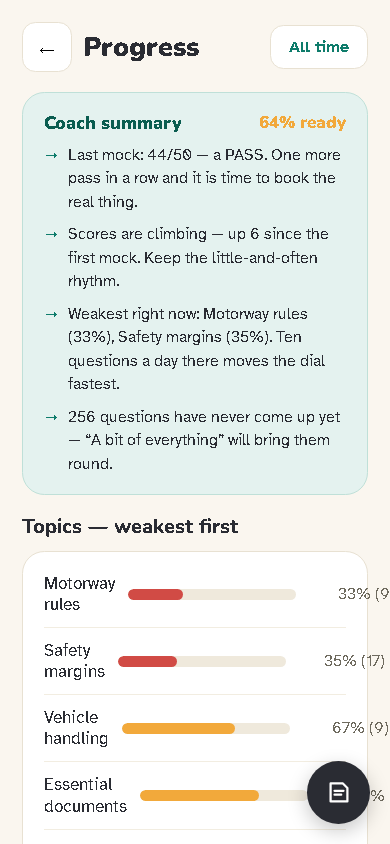
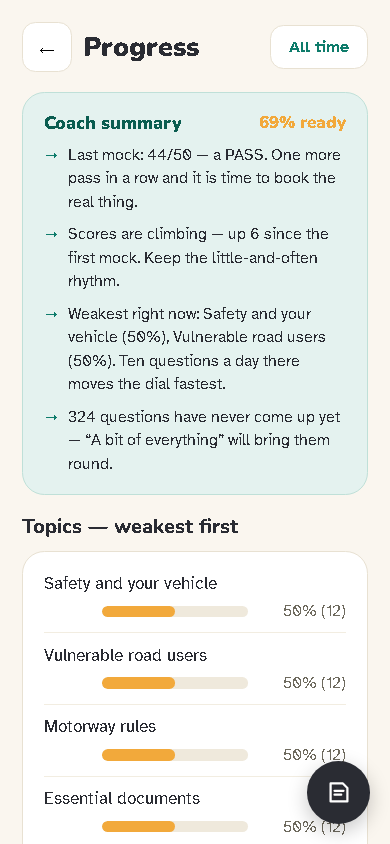
docs(help): How-to guide covers Your data, the age question and Explain it differently
help.html (issue #2's guide; it had merged and nobody is working on it):
- Sign in: new part "Your year of birth" (the age question, the parent or guardian box, Not
  now), with a new screenshot help/img/age.png. The age comes from config.js (data-config).
- Practise: "Explain it differently" under Answering a question.
- Settings: "Your data" in the list and a new part (Download my data, Your age, Delete my
  account with its typed confirmation, the renewing-subscription and admin rules), with a
  new screenshot help/img/settings-your-data.png.
- Memory tips is now "Memory tips and plain explanations" (the review screen's second kind,
  "In the bank" beside each plain explanation); the dashboard link's new wording.
- Retaken: help/img/admin-dashboard.png and admin-links.png showed the topic figures cut off
  (#12 B) and the old Memory tips button.
- FAQ: how to get a copy of your data or delete your account; why the app asks your year of
  birth.

Checked in a browser at 390 and 1280, light and dark: no sideways overflow, every changed
image loads at its stated size, the age reads 16 from config.js.

diff --git a/help.html b/help.html
@@ -67,7 +67,7 @@
           <li class="toc-group">For the parent or admin</li>
           <li><a href="#admin">The admin dashboard</a></li>
           <li><a href="#activity">Activity</a></li>
-          <li><a href="#tips">Memory tips</a></li>
+          <li><a href="#tips">Memory tips and plain explanations</a></li>
           <li><a href="#editor">Questions and packs</a></li>
           <li><a href="#access">Access and account tools</a></li>
           <li class="toc-group">Help</li>
@@ -112,6 +112,22 @@
           <figure class="shot">
             <a href="help/img/create-account.png"><img src="help/img/create-account.png" width="390" height="844" alt="The Create your account screen: boxes for your name, email and password, and a Create account button." loading="lazy"></a>
             <figcaption>Create your account</figcaption>
+          </figure>
+        </div>
+        <div class="step">
+          <div>
+            <h3 id="age">Your year of birth</h3>
+            <p>Right after your first sign-in, the app asks the year you were born. Everyone is asked once, including accounts made before the question existed.</p>
+            <ul>
+              <li>Type the year and tap <strong>Save</strong>. Only the year is kept, never the day or month.</li>
+              <li>If you may be under <span data-config="age.guardianUnder">16</span>, a box appears for a parent or guardian: they tick it to agree to you using Theory Trainer, and add their email (not yours). Their email is kept with your account as the record that they agreed.</li>
+              <li><strong>Not now</strong> puts the question off until you next open the app; it keeps coming back until it's answered.</li>
+              <li>You can change the answer any time in <a href="#yourdata">Settings → Your data</a>.</li>
+            </ul>
+          </div>
+          <figure class="shot">
+            <a href="help/img/age.png"><img src="help/img/age.png" width="390" height="844" alt="What year were you born? with 2012 typed in, and a box saying a parent or guardian needs to agree, with their tick and their email, then Save and Not now." loading="lazy"></a>
+            <figcaption>Your year of birth</figcaption>
           </figure>
         </div>
       </section>
@@ -284,6 +300,7 @@
             <ul>
               <li>Tap an answer. You find out straight away: your pick turns red if it's wrong and the right one turns green. On a computer you can use the keyboard: <strong>Tab</strong> to an answer, then press <strong>Enter</strong> or <strong>Space</strong>.</li>
               <li>Underneath is the explanation and its <strong>Highway Code</strong> rule, often with a tip to remember it. The speaker button reads the explanation out.</li>
+              <li><strong>Explain it differently</strong> appears under a wrong answer when the question has a plainer explanation: tap it to read the same explanation in other words (<strong>In other words: …</strong>), and tap again to hide it. The admin checks every one before it appears, so only some questions have one.</li>
               <li><strong>Speaker buttons</strong> read the question, or any one answer, aloud.</li>
               <li><strong>Hint: take two away</strong> removes two wrong answers (you can turn this button off in Settings).</li>
               <li><strong>Tricky?</strong> at the top flags the question so you can revise it later. It changes to <strong>Flagged</strong>; tap again to un-flag.</li>
@@ -559,6 +576,7 @@
               <div><dt>Daily reminder and Reminder time</dt><dd>See <a href="#reminders">Daily reminders</a>.</dd></div>
               <div><dt>Quick setup</dt><dd><strong>Run it again</strong> goes back through the <a href="#setup">quick setup</a>: test date, daily goal and reminder, one at a time.</dd></div>
               <div><dt>Profiles</dt><dd>Change the learner's and the parent's names, and <strong>+ Add another learner</strong>.</dd></div>
+              <div><dt>Your data</dt><dd>Download everything the server keeps for your account, see or change your year of birth, and delete your account. <a href="#yourdata">More below.</a></dd></div>
               <div><dt>Reset all progress…</dt><dd>After asking you to confirm, clears this learner's answers, memory boxes and mock scores. Questions the admin added are kept. Flags, XP and streak are not cleared.</dd></div>
               <div><dt>Help and legal</dt><dd><strong>Help</strong> (this guide), <strong>About</strong>, <strong>Privacy</strong> and <strong>Terms</strong>, each in its own tab, and a line saying the app is not affiliated with the DVSA.</dd></div>
             </dl>
@@ -581,6 +599,22 @@
           <figure class="shot">
             <a href="help/img/settings-help.png"><img src="help/img/settings-help.png" width="390" height="844" alt="The bottom of Settings: Quick setup with a Run it again button, Profiles, Add another learner, Reset all progress, and Help and legal with Help, About, Privacy and Terms." loading="lazy"></a>
             <figcaption>Quick setup, and Help and legal</figcaption>
+          </figure>
+        </div>
+        <div class="step">
+          <div>
+            <h3 id="yourdata">Your data</h3>
+            <p>Near the bottom of Settings, when you're signed in:</p>
+            <ul>
+              <li><strong>Download my data</strong> saves everything the server keeps for your account as one file (JSON, which any text editor opens): your account, your access, the progress backup of every learner, reminder settings and the whole activity history.</li>
+              <li><strong>Your age</strong> shows the year you gave, and the parent's or guardian's email if one agreed. <strong>Change</strong> opens the <a href="#age">question</a> again.</li>
+              <li><strong>Delete my account</strong> deletes the account and everything the server keeps for it. <strong>Delete…</strong> first lists exactly what goes. Then type <strong>DELETE</strong> and tap <strong>Delete my account for good</strong>; the button stays grey until you've typed it. This phone or computer forgets the account too: you're signed out and the learners' progress on it is removed. There's no undo, so download your data first if you want a copy.</li>
+              <li>A subscription that is still set to renew has to be cancelled first (<strong>Manage subscription</strong>); the app says so if you try. The admin account can't be deleted here: it shows why instead of the button.</li>
+            </ul>
+          </div>
+          <figure class="shot">
+            <a href="help/img/settings-your-data.png"><img src="help/img/settings-your-data.png" width="390" height="844" alt="Settings, Your data: Download my data, Your age born in 2000 with a Change button, and Delete my account open, listing what it deletes for good." loading="lazy"></a>
+            <figcaption>Your data</figcaption>
           </figure>
         </div>
       </section>
@@ -688,14 +722,14 @@
               <li><strong>Coach summary</strong> — the readiness percentage and the coach's advice.</li>
               <li><strong>Topics — weakest first</strong>, with a <strong>Focus Drill</strong> button.</li>
               <li><strong>Mock test scores</strong> — tap a test to see it topic by topic. <strong>+ Log an external mock result</strong> lets you type in a score from another mock (for example a Safe Driving for Life or Theory Test Pro mock), with per-topic results if you have them, so everything is in one place.</li>
-              <li><strong>Everything she does</strong> — links to <a href="#activity">Activity</a> and <a href="#tips">Memory tips</a>.</li>
+              <li><strong>Everything she does</strong> — links to <a href="#activity">Activity</a> and to <a href="#tips">Memory tips and plain explanations</a>.</li>
               <li><strong>Flagged for extra revision</strong> and <strong>20 hardest questions</strong> (the ones she gets wrong most).</li>
               <li><strong>Question packs</strong>, <strong>Subscription</strong>, <strong>Account</strong> and <strong>Data</strong> — see <a href="#editor">Questions and packs</a> and <a href="#access">Access and account tools</a>.</li>
             </ul>
             <p class="note"><strong>Which parts need an admin account?</strong> Activity, Memory tips and uploading the question bank need an account the server knows is the admin. The rest of the dashboard works on the device you're using.</p>
           </div>
           <figure class="shot">
-            <a href="help/img/admin-dashboard.png"><img src="help/img/admin-dashboard.png" width="390" height="844" alt="The admin Progress dashboard: an All time button, Coach summary at 64% ready with advice, and Topics weakest first." loading="lazy"></a>
+            <a href="help/img/admin-dashboard.png"><img src="help/img/admin-dashboard.png" width="390" height="844" alt="The admin Progress dashboard: an All time button, Coach summary at 69% ready with advice, and Topics weakest first, each topic's bar and score under its name." loading="lazy"></a>
             <figcaption>The dashboard</figcaption>
           </figure>
         </div>
@@ -705,7 +739,7 @@
             <p>Two links, a count of flagged questions, and the 20 questions she finds hardest, with how many times each was got right and in which topic.</p>
           </div>
           <figure class="shot">
-            <a href="help/img/admin-links.png"><img src="help/img/admin-links.png" width="390" height="844" alt="The dashboard's Everything she does section with links to Activity and Memory tips, Flagged for extra revision, and the 20 hardest questions." loading="lazy"></a>
+            <a href="help/img/admin-links.png"><img src="help/img/admin-links.png" width="390" height="844" alt="The dashboard's Everything she does section with links to Activity and to Memory tips and plain explanations, Flagged for extra revision with 4 flagged, and the 20 hardest questions." loading="lazy"></a>
             <figcaption>Activity, tips, flags and hardest</figcaption>
           </figure>
         </div>
@@ -735,14 +769,14 @@
 
       <!-- ============ 21. memory tips (admin) ============ -->
       <section id="tips" aria-labelledby="h-tips">
-        <h2 id="h-tips"><span class="num"></span>Memory tips</h2>
-        <p>Memory tips are drafted on the admin's own computer by a local AI program, using only each question's own words. A check rejects any draft with a number that isn't in the question. Nothing reaches a learner until it is approved here.</p>
+        <h2 id="h-tips"><span class="num"></span>Memory tips and plain explanations</h2>
+        <p>Memory tips, and the plain explanations behind <a href="#practise">Explain it differently</a>, are drafted on the admin's own computer by a local AI program. A tip uses only its question's own words; a plain explanation uses the question, its right answer and its explanation. A check rejects any draft with a number that isn't in the question. Nothing reaches a learner until it is approved here.</p>
         <ol>
-          <li>On the dashboard tap <strong>Memory tips: check the AI's tips before Catie sees them</strong>.</li>
-          <li>The tabs at the top are <strong>To check</strong>, <strong>Approved</strong> and <strong>Rejected</strong>, each with a count. Up to 50 tips show at a time.</li>
-          <li>Each question is shown with its answer and the drafted tip, which you can edit.</li>
+          <li>On the dashboard tap <strong>Memory tips and plain explanations: check the AI's words before Catie sees them</strong>.</li>
+          <li>Choose <strong>Memory tips</strong> or <strong>Plain explanations</strong> at the top. Under that, the tabs are <strong>To check</strong>, <strong>Approved</strong> and <strong>Rejected</strong>, each with a count. Up to 50 show at a time.</li>
+          <li>Each question is shown with its answer and the draft, which you can edit. A plain explanation also shows <strong>In the bank</strong>: the question's own explanation, so you can check the new wording says the same thing.</li>
           <li>Tap <strong>Approve</strong> to make it live, or <strong>Reject</strong> to hide it. The status says <strong>Live for Catie</strong>, <strong>Hidden</strong> or <strong>Not shown yet</strong>. On an approved tip the button says <strong>Save</strong>, for saving an edit.</li>
-          <li>On the To check tab, <strong>Approve all … shown</strong> approves every tip on the screen at once, after asking you to confirm.</li>
+          <li>On the To check tab, <strong>Approve all … shown</strong> approves everything on the screen at once, after asking you to confirm.</li>
         </ol>
       </section>
 
@@ -784,7 +818,7 @@
             <h3>Account</h3>
             <p>Shows who is signed in and their access, with <strong>Sync now</strong>, <strong>Manage subscription</strong>, <strong>I've paid</strong> and <strong>Sign out</strong>. An admin account also sees <strong>Upload question bank to server</strong> and <strong>Server settings</strong> (the one-time link to the database; learners never need it).</p>
             <h3>Data</h3>
-            <p><strong>Export backup</strong> downloads a file with this learner's settings, memory boxes, answers and mock tests, plus any question edits. <strong>Import backup</strong> loads one back. <strong>Edit questions</strong> and <strong>Print</strong> open those screens.</p>
+            <p><strong>Export backup</strong> downloads a file with this learner's settings, memory boxes, answers and mock tests, plus any question edits. <strong>Import backup</strong> loads one back. (For everything the server keeps for the account, use <a href="#yourdata">Settings → Your data → Download my data</a>.) <strong>Edit questions</strong> and <strong>Print</strong> open those screens.</p>
           </div>
           <figure class="shot">
             <a href="help/img/admin-access.png"><img src="help/img/admin-access.png" width="390" height="844" alt="Access for Catie with Default, Always free, Free until, Suspended and Blocked, Show me the subscribe screen, and the Account section with Sync now, Manage subscription, I've paid, Sign out and Upload question bank to server." loading="lazy"></a>
@@ -803,6 +837,14 @@
         <details>
           <summary>Does it cover hazard perception?</summary>
           <div><p>No. Hazard perception is the second part of the real test and uses video clips; the app doesn't have it. The app covers the multiple-choice part.</p></div>
+        </details>
+        <details>
+          <summary>How do I get a copy of my data, or delete my account?</summary>
+          <div><p>In <a href="#yourdata">Settings → Your data</a>. <strong>Download my data</strong> saves everything the server keeps for your account as one file. <strong>Delete my account</strong> lists exactly what will be deleted and asks you to type DELETE first. If your subscription is still set to renew, cancel it first with Manage subscription.</p></div>
+        </details>
+        <details>
+          <summary>Why does the app ask the year I was born?</summary>
+          <div><p>Anyone who may be under <span data-config="age.guardianUnder">16</span> needs a parent or guardian to agree to them using the app. Only the year is kept, never the day or month. See <a href="#age">Your year of birth</a>.</p></div>
         </details>
         <details>
           <summary>Can the whole family use one account?</summary>
